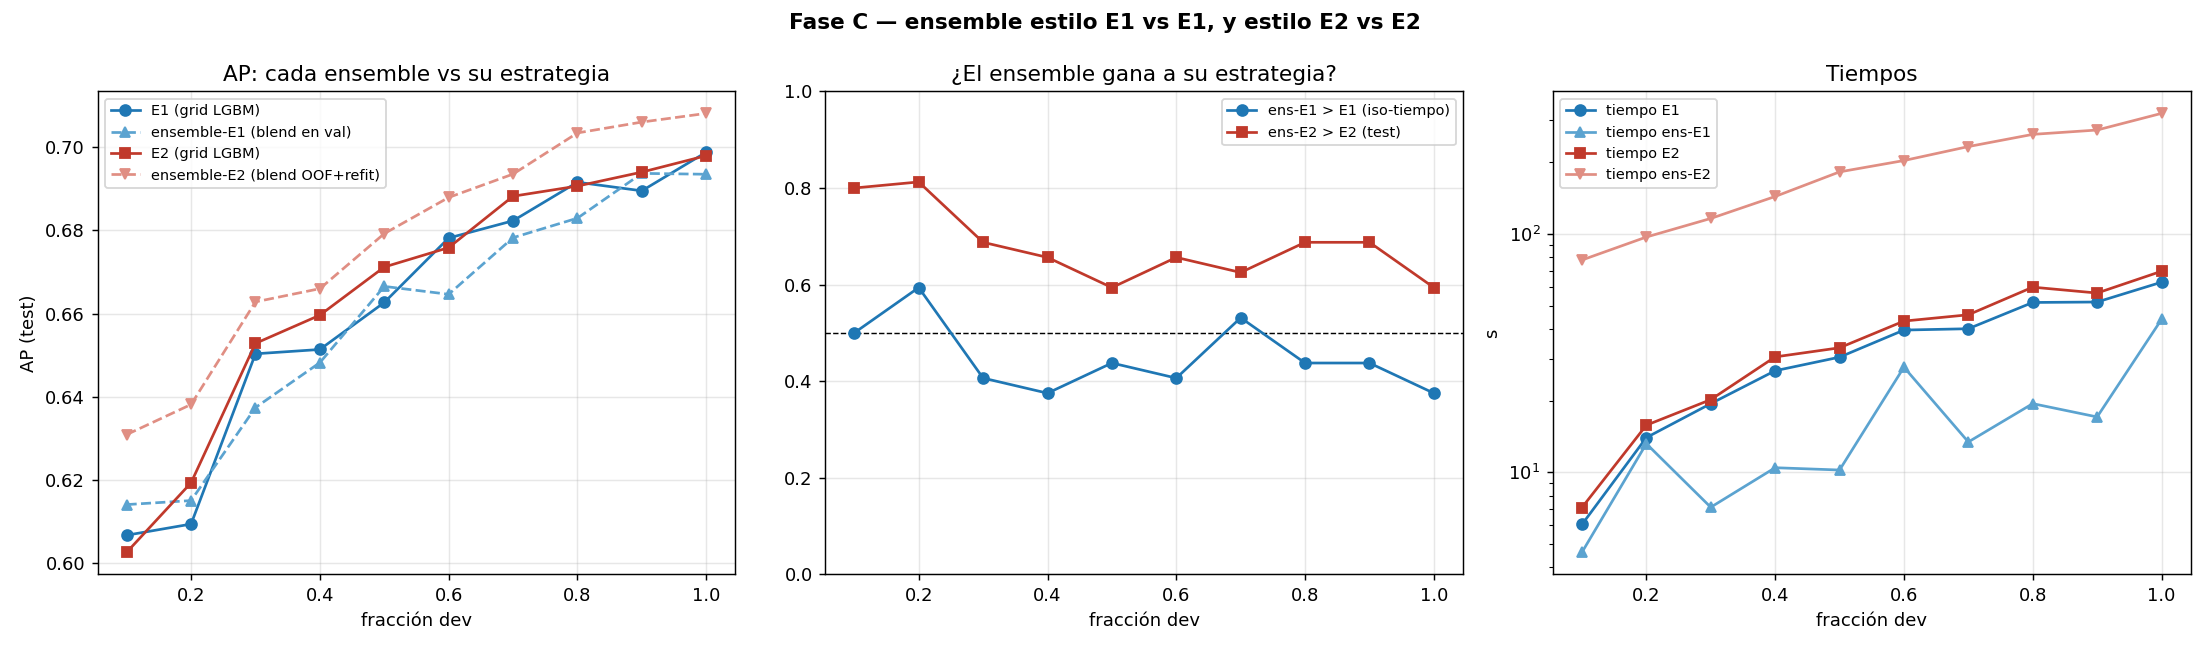
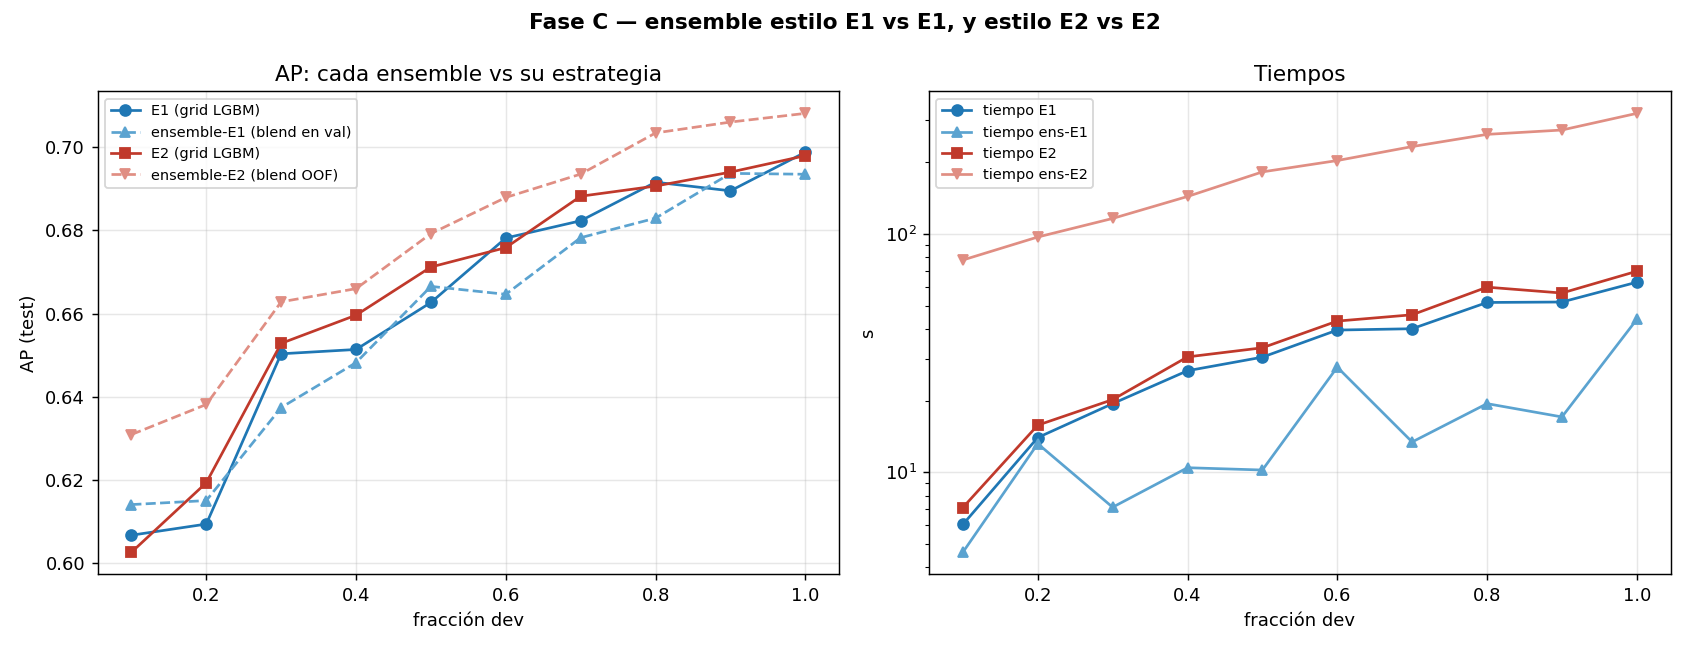
Part 3: drop middle panel of Phase C fig (keep AP+Times), fix 'OOF+refit' label; note ens-E1 is cheaper than E1 (skips the 18-config search)

diff --git a/valsplit_study/analyze_isotime.py b/valsplit_study/analyze_isotime.py
@@ -86,27 +86,21 @@ def main():
         ens_e1_t=("ens_full_t", "mean"), ens_e2_t=("e2ens_t", "mean"),
         n=("e1_ap", "size")).reset_index()
 
-    fig, ax = plt.subplots(1, 3, figsize=(17, 5))
+    fig, ax = plt.subplots(1, 2, figsize=(13, 5))
     # panel 1: AP — E1 y su ensemble-E1 (a tiempo de E1); E2 y su ensemble-E2
     ax[0].plot(by["frac"], by["e1_ap"], "o-", color="#1f77b4", label="E1 (grid LGBM)")
     ax[0].plot(by["frac"], by["ens_e1"], "^--", color="#5ba3d0", label=L("ensemble-E1 (blend en val)", "ensemble-E1 (blend on val)"))
     ax[0].plot(by["frac"], by["e2_ap"], "s-", color="#c0392b", label="E2 (grid LGBM)")
-    ax[0].plot(by["frac"], by["ens_e2"], "v--", color="#e08e83", label=L("ensemble-E2 (blend OOF+refit)", "ensemble-E2 (blend OOF+refit)"))
+    ax[0].plot(by["frac"], by["ens_e2"], "v--", color="#e08e83", label=L("ensemble-E2 (blend OOF)", "ensemble-E2 (blend on OOF)"))
     ax[0].set_xlabel(L("fracción dev", "dev fraction")); ax[0].set_ylabel("AP (test)")
     ax[0].set_title(L("AP: cada ensemble vs su estrategia", "AP: each ensemble vs its strategy")); ax[0].legend(fontsize=8); ax[0].grid(alpha=.3)
 
-    ax[1].axhline(.5, color="k", lw=.8, ls="--")
-    ax[1].plot(by["frac"], by["win_e1"], "o-", color="#1f77b4", label=L("ens-E1 > E1 (iso-tiempo)", "ens-E1 > E1 (equal time)"))
-    ax[1].plot(by["frac"], by["win_e2ens"], "s-", color="#c0392b", label="ens-E2 > E2 (test)")
-    ax[1].set_ylim(0, 1); ax[1].set_xlabel(L("fracción dev", "dev fraction"))
-    ax[1].set_title(L("¿El ensemble gana a su estrategia?", "Does the ensemble beat its strategy?")); ax[1].legend(fontsize=8); ax[1].grid(alpha=.3)
-
-    ax[2].plot(by["frac"], by["e1_t"], "o-", color="#1f77b4", label=L("tiempo E1", "time E1"))
-    ax[2].plot(by["frac"], by["ens_e1_t"], "^-", color="#5ba3d0", label=L("tiempo ens-E1", "time ens-E1"))
-    ax[2].plot(by["frac"], by["e2_t"], "s-", color="#c0392b", label=L("tiempo E2", "time E2"))
-    ax[2].plot(by["frac"], by["ens_e2_t"], "v-", color="#e08e83", label=L("tiempo ens-E2", "time ens-E2"))
-    ax[2].set_yscale("log"); ax[2].set_xlabel(L("fracción dev", "dev fraction")); ax[2].set_ylabel("s")
-    ax[2].set_title(L("Tiempos", "Times")); ax[2].legend(fontsize=8); ax[2].grid(alpha=.3)
+    ax[1].plot(by["frac"], by["e1_t"], "o-", color="#1f77b4", label=L("tiempo E1", "time E1"))
+    ax[1].plot(by["frac"], by["ens_e1_t"], "^-", color="#5ba3d0", label=L("tiempo ens-E1", "time ens-E1"))
+    ax[1].plot(by["frac"], by["e2_t"], "s-", color="#c0392b", label=L("tiempo E2", "time E2"))
+    ax[1].plot(by["frac"], by["ens_e2_t"], "v-", color="#e08e83", label=L("tiempo ens-E2", "time ens-E2"))
+    ax[1].set_yscale("log"); ax[1].set_xlabel(L("fracción dev", "dev fraction")); ax[1].set_ylabel("s")
+    ax[1].set_title(L("Tiempos", "Times")); ax[1].legend(fontsize=8); ax[1].grid(alpha=.3)
     plt.suptitle(L("Fase C — ensemble estilo E1 vs E1, y estilo E2 vs E2",
                    "Phase C — E1-style ensemble vs E1, and E2-style vs E2"), fontweight="bold")
     plt.tight_layout(); plt.savefig(f"{STUDY}/fig_C_isotime{SUF}.png", dpi=130); plt.close()

diff --git a/valsplit_study/medium/articles/3_ensembles.md b/valsplit_study/medium/articles/3_ensembles.md
@@ -64,7 +64,9 @@ each, *no* per-family tuning) and combined them with a **greedy Caruana blend**:
 average of probabilities whose weights are chosen by hill-climbing. Two symmetric flavors,
 mirroring the E1/E2 split from part one:
 
-- **ens-E1:** learn the blend on a separate `val`. Trains each family once → cheap.
+- **ens-E1:** learn the blend on a separate `val`. Trains each family just once → **cheap —
+  in fact cheaper than plain E1 itself**, because it never runs the 18-config grid search: it
+  just trains the 10 models once and blends them.
 - **ens-E2:** learn the blend on the CV out-of-fold predictions — so it cross-validates all
   ten families (4 folds each) instead of training them once → several times more work.
 
